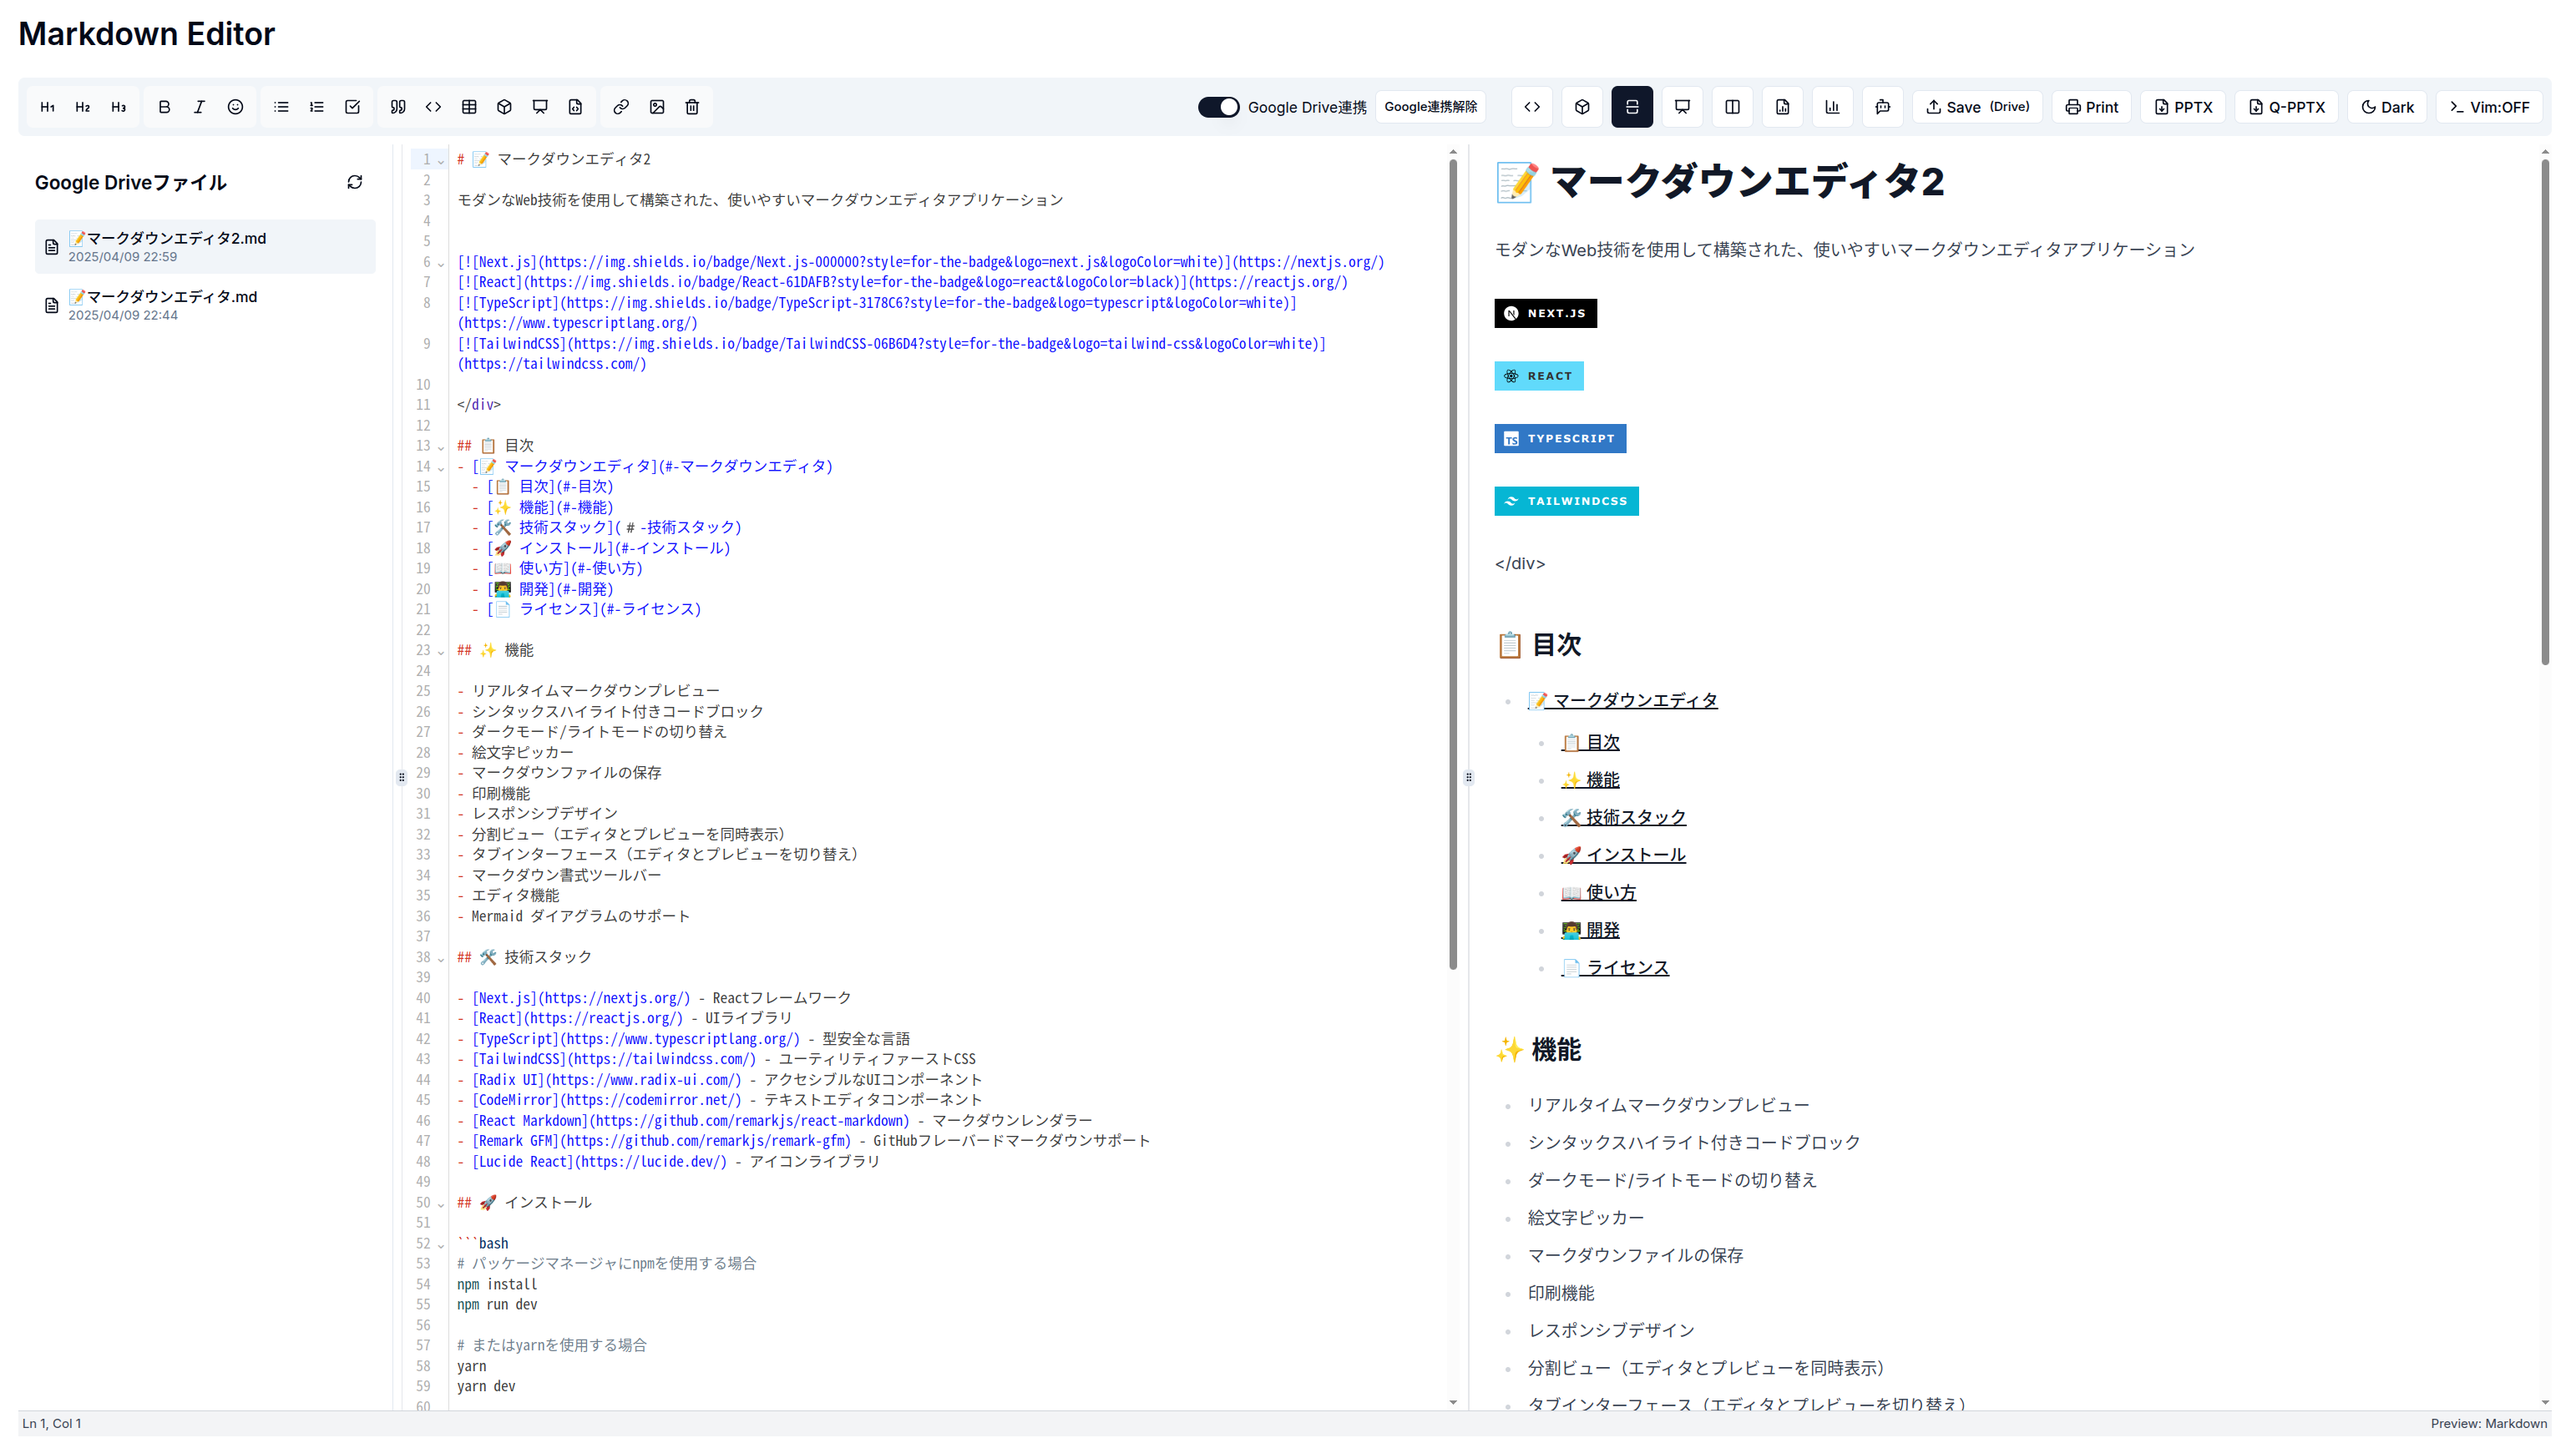
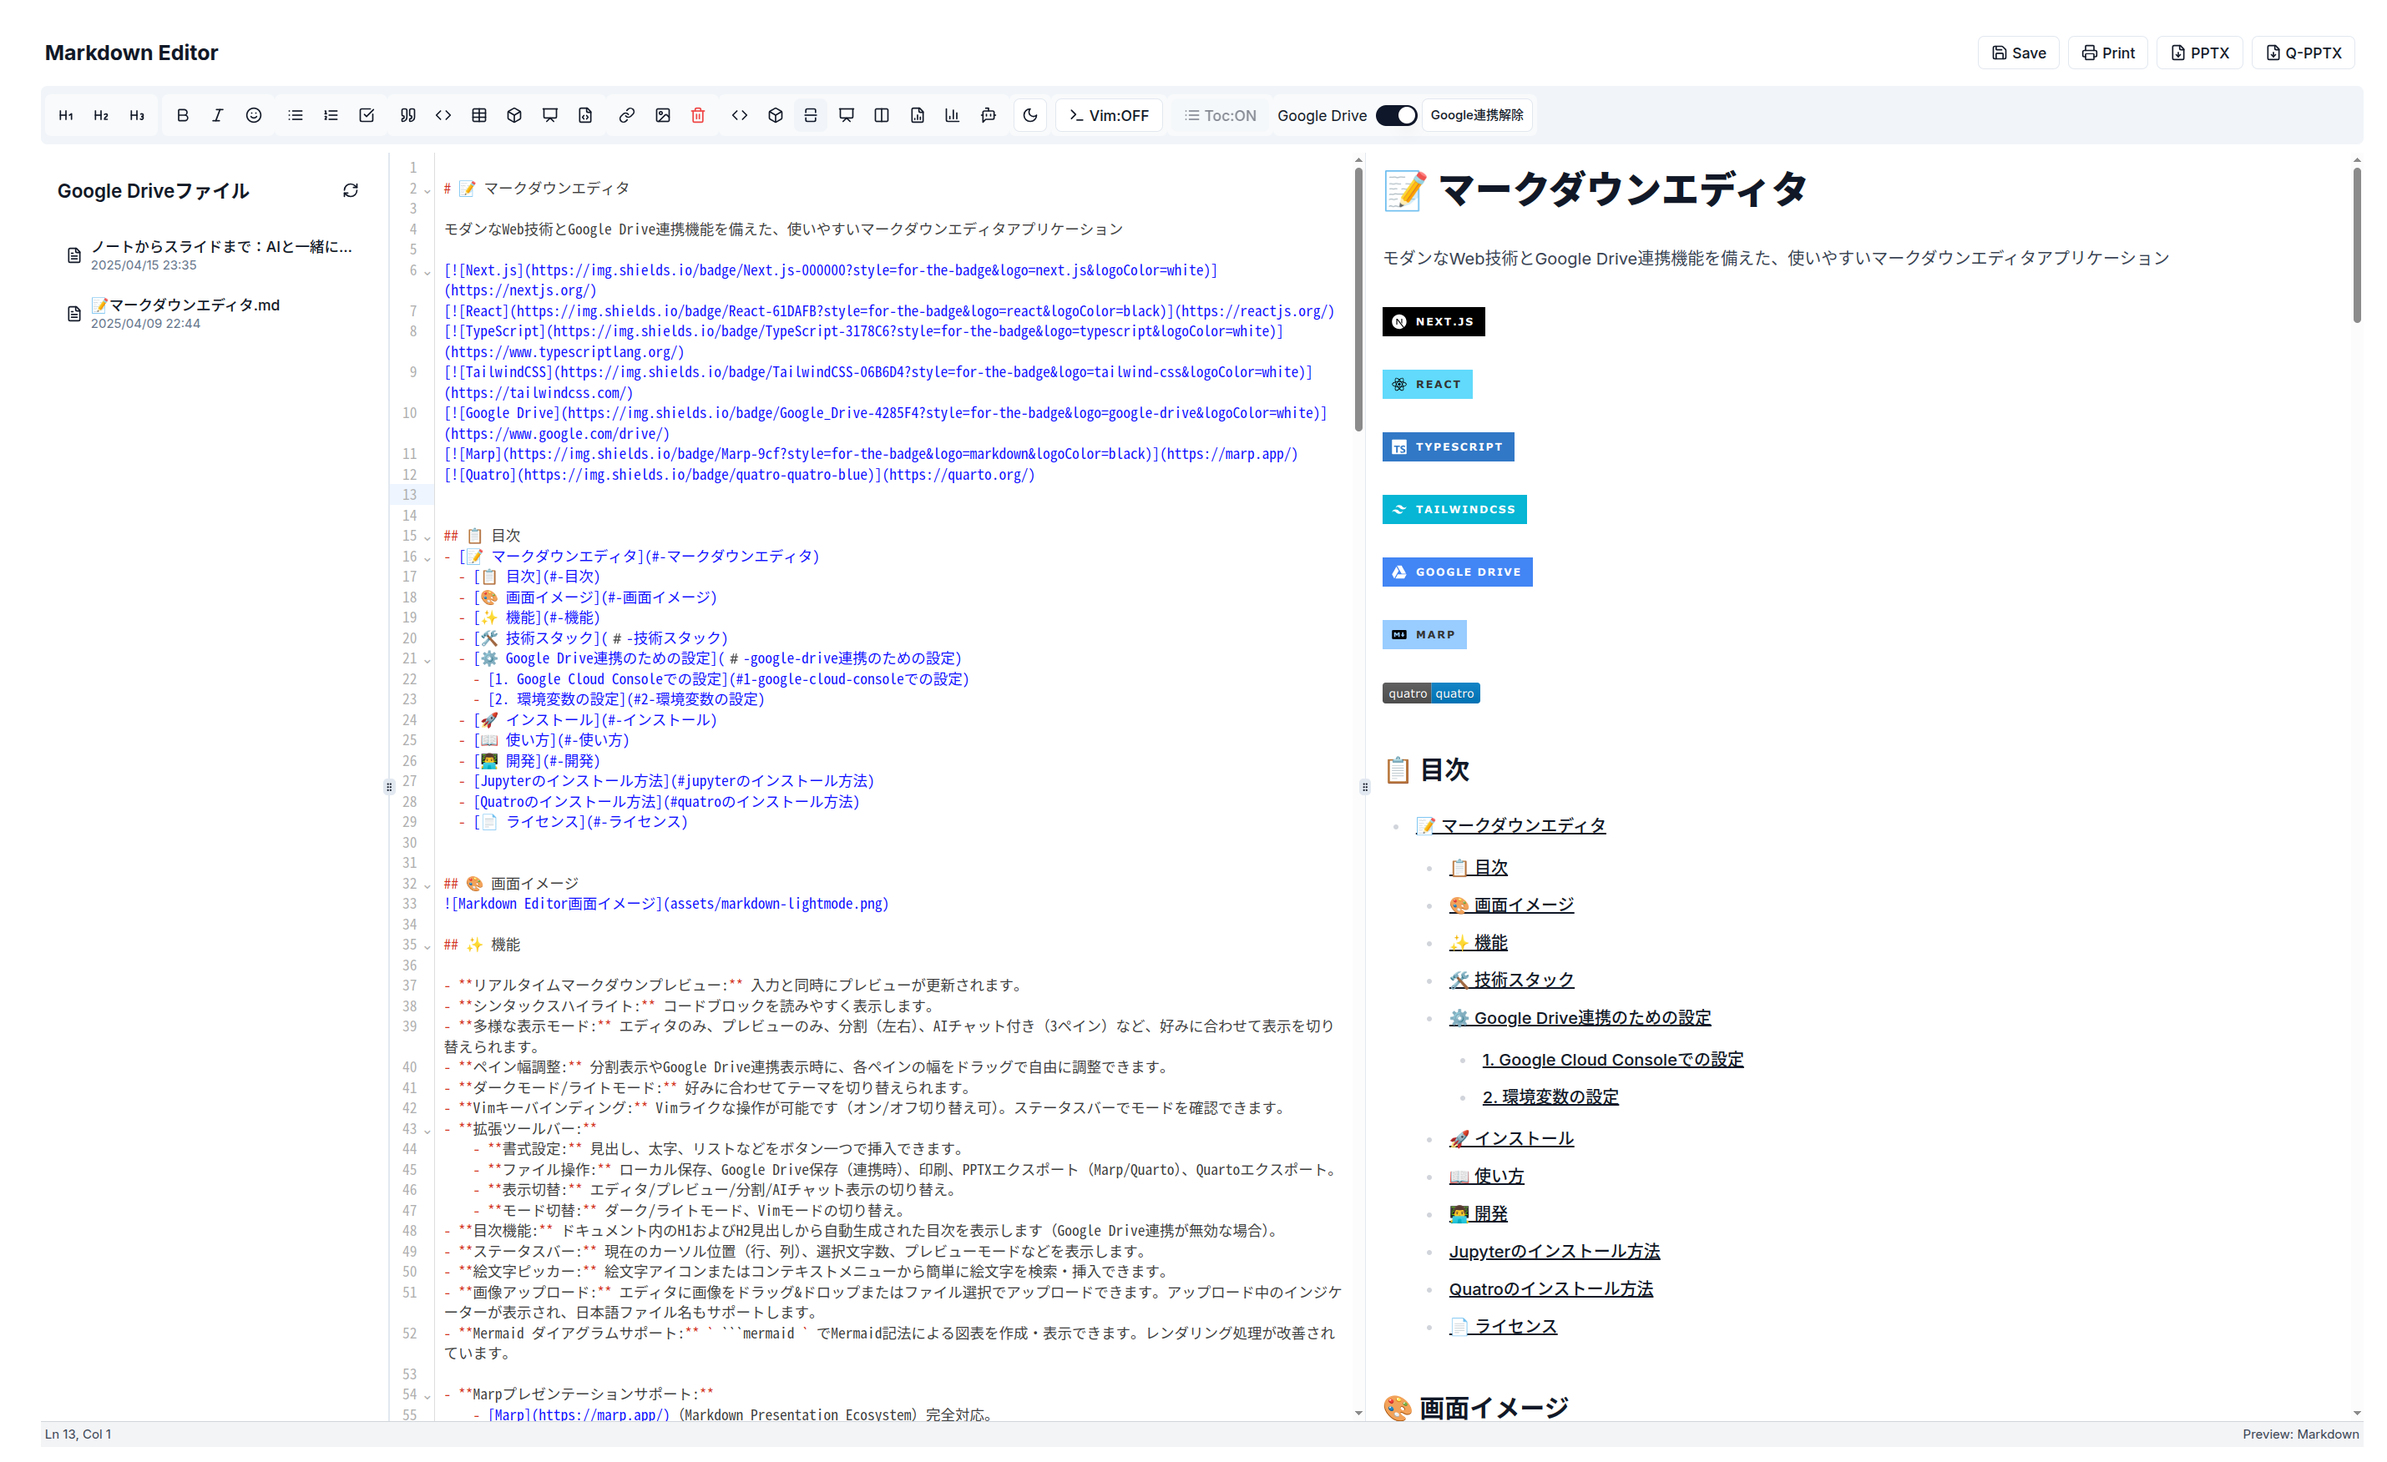
環境変数の設定例を追加し、.gitignoreに.envファイルのパターンを明示的に追加しました。また、README.mdに新機能の説明を追加し、エディタのタイトルを削除しました。これにより、設定の明確化とドキュメントの充実が図られました。

diff --git a/app/page.tsx b/app/page.tsx
@@ -4,7 +4,7 @@ export default function Home() {
   return (
     <main className="min-h-screen bg-background">
       <div className="w-full max-w-[90%] mx-auto px-2 sm:px-4 py-2 sm:py-4">
-        <h1 className="text-2xl sm:text-3xl font-semibold mb-2 sm:mb-6 text-foreground">Markdown Editor</h1>
+        <h1 className="text-2xl sm:text-3xl font-semibold mb-2 sm:mb-6 text-foreground"></h1>
         <MarkdownEditor />
       </div>
     </main>
